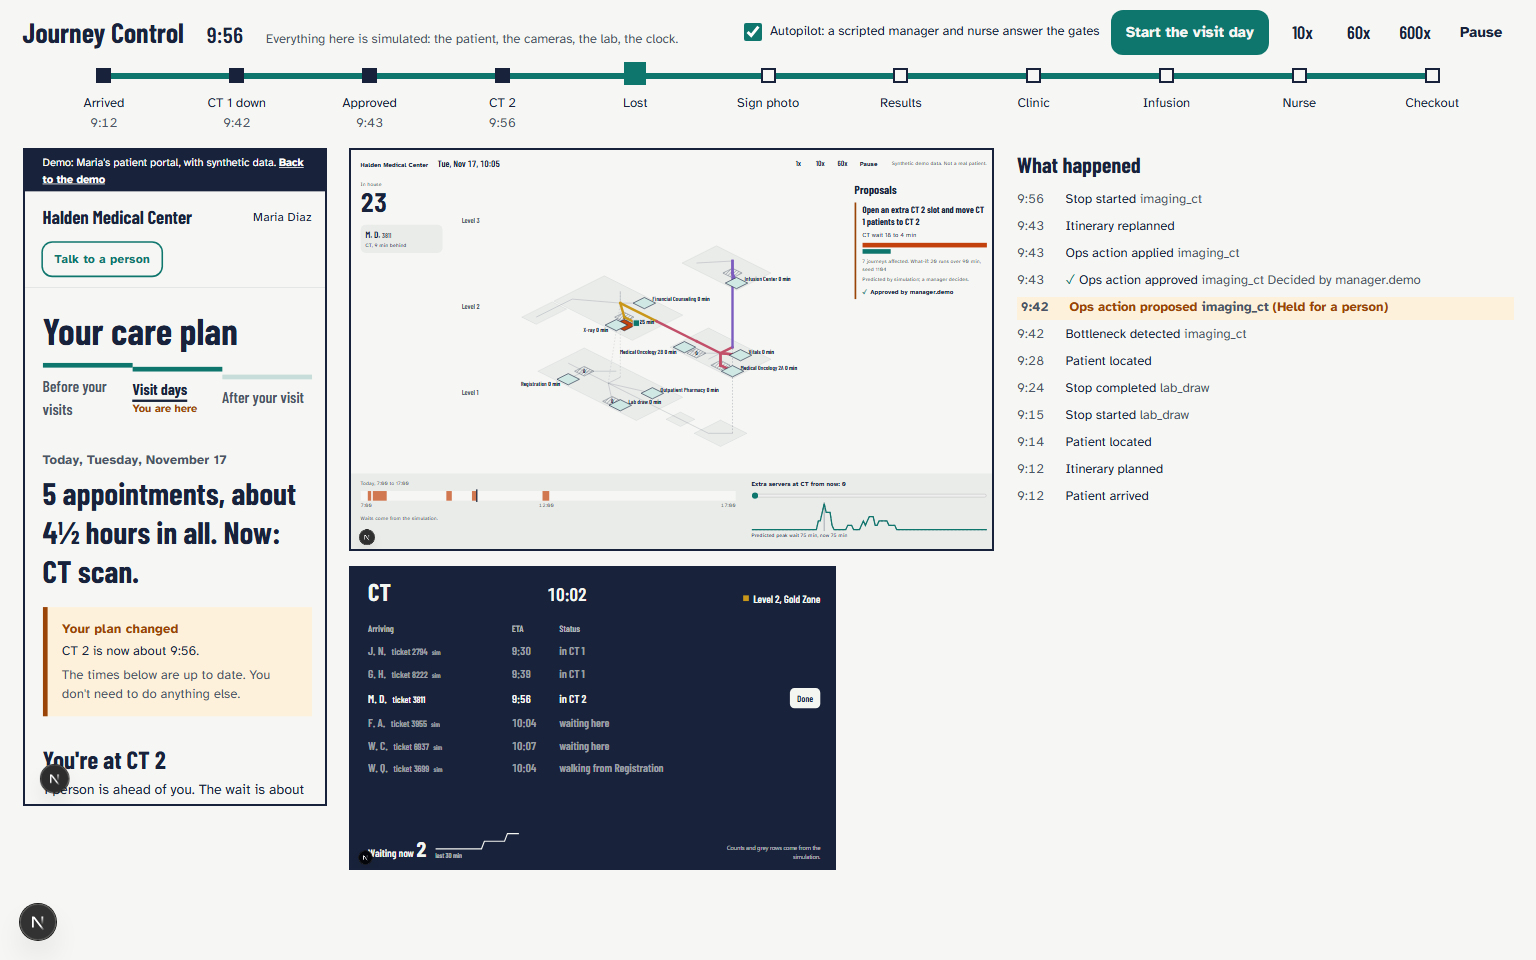
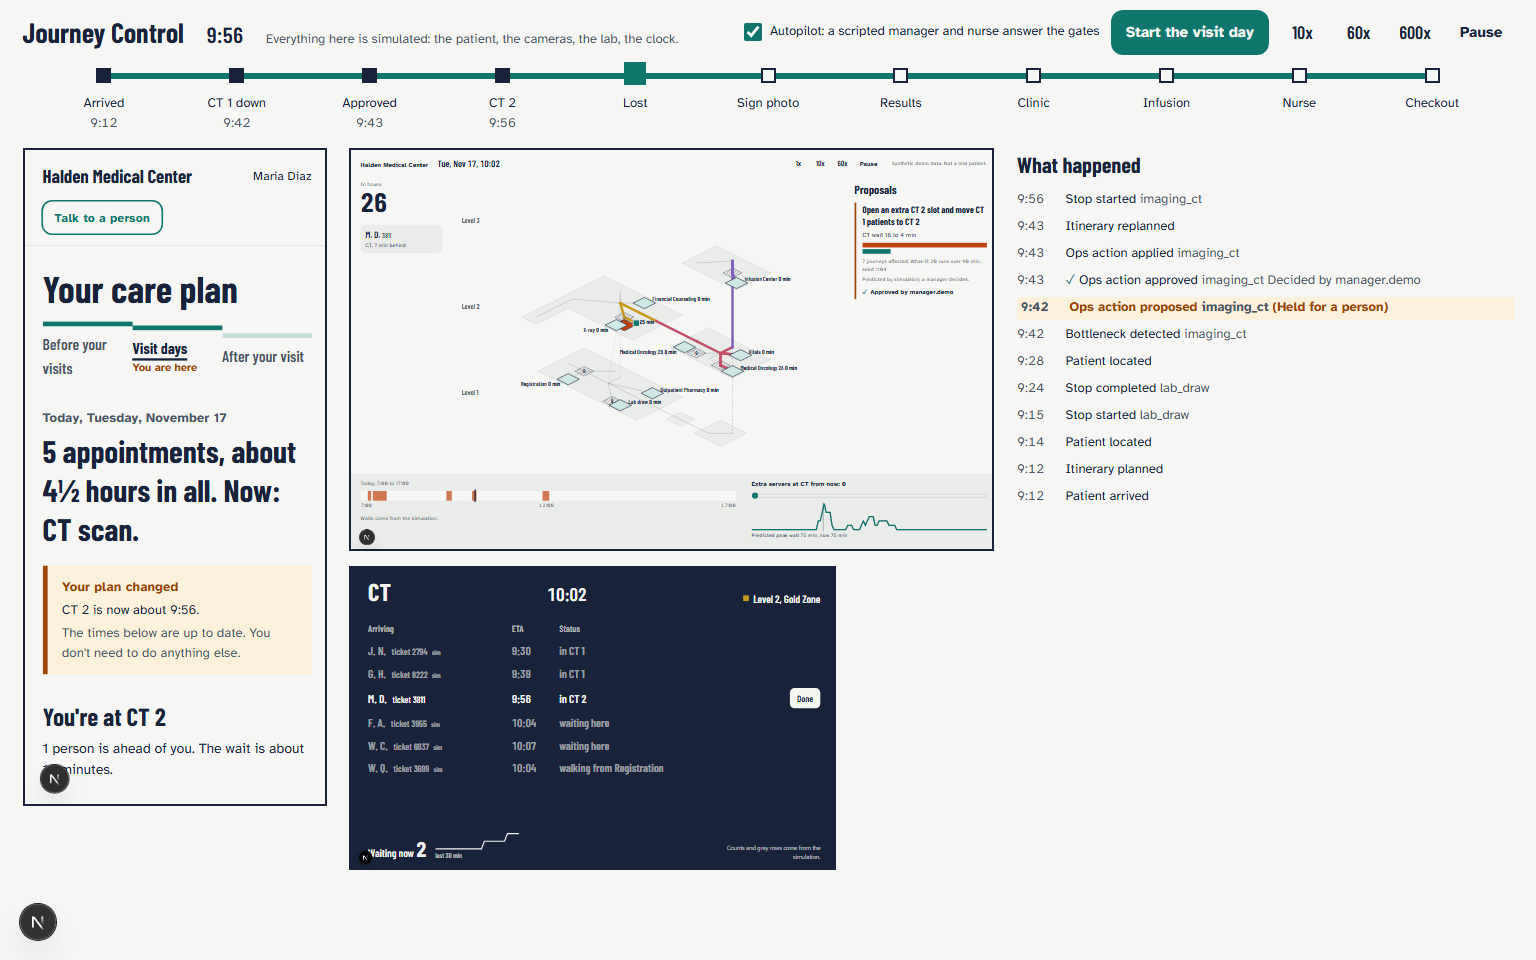
web: present the product as live, without demo and synthetic chrome
Story actions read as the product's own actions (Save member ID, Send to
Lonestar Health Plan, Continue to 9:53 am); Maria's reply is a text she sends;
demo strips, 'synthetic' footers, and simulation notes are gone from the
pages people see. Data stays flagged synthetic in the backend.

Changed region(s): [[0.0, 0.1562, 0.2188, 0.8438]]

diff --git a/apps/web/app/story/steps.ts b/apps/web/app/story/steps.ts
@@ -21,6 +21,8 @@ export interface StoryStepCopy {
   happened: string;
   screen: Screen;
   action: string;
+  /** A message the actor sends with the action (Maria's text reply). */
+  draft?: string;
   next: string;
 }
 
@@ -33,7 +35,7 @@ export const STEPS: StoryStepCopy[] = [
     happened:
       "Dr. Whitcombe's office faxed a referral for Maria Diaz. Throughline read the fax and the insurance card. One thing was unreadable: the end of her member ID is smudged on the fax.",
     screen: { kind: "intake" },
-    action: "Enter the member ID from the card",
+    action: "Save member ID",
     next: "Throughline checks her insurance and drafts the approval request for the CT scan.",
   },
   {
@@ -44,7 +46,7 @@ export const STEPS: StoryStepCopy[] = [
     happened:
       "Her insurance is active. Her plan must approve the CT scan and the infusion before they can be booked, so Throughline drafted the request. Nothing goes to an insurer without a person.",
     screen: { kind: "auth" },
-    action: "Send the request to the insurer",
+    action: "Send to Lonestar Health Plan",
     next: "The insurer usually answers within two business days.",
   },
   {
@@ -55,7 +57,7 @@ export const STEPS: StoryStepCopy[] = [
     happened:
       "The request is with Lonestar Health Plan. There is nothing for anyone to do until they answer.",
     screen: { kind: "waiting" },
-    action: "Skip ahead two days",
+    action: "Continue to Thu, Nov 12",
     next: "When the insurer approves, Throughline books every appointment in the right order and texts Maria.",
   },
   {
@@ -66,7 +68,8 @@ export const STEPS: StoryStepCopy[] = [
     happened:
       "The insurer approved. Throughline fit all five appointments into one morning, on a day her daughter can drive her, and texted Maria what to expect.",
     screen: { kind: "patient", phase: "before" },
-    action: "Reply as Maria: “Yes. My husband can't come, so I'll need a wheelchair.”",
+    action: "Send",
+    draft: "Yes, I'll be there. But my husband can't come, so I'll need a wheelchair.",
     next: "Throughline confirms, notes the wheelchair, and sends reminders before the day.",
   },
   {
@@ -77,7 +80,7 @@ export const STEPS: StoryStepCopy[] = [
     happened:
       "Maria got a reminder this morning. Her page says exactly what tomorrow looks like and what to do tonight.",
     screen: { kind: "patient", phase: "before" },
-    action: "Go to Tuesday morning: Maria arrives",
+    action: "Continue to Tue, Nov 17, 9:13 am",
     next: "She checks in at the Main Entrance kiosk and gets her plan for the day.",
   },
   {
@@ -88,7 +91,7 @@ export const STEPS: StoryStepCopy[] = [
     happened:
       "Maria checked in. Her daughter pushes her wheelchair. Her page shows her first stop, how many people are ahead, and a step-free way there.",
     screen: { kind: "patient", phase: "visit" },
-    action: "Play the morning",
+    action: "Continue to 9:53 am",
     next: "She has her blood drawn and her vitals checked, then waits for her CT scan. Meanwhile, CT scanner 1 breaks down.",
   },
   {
@@ -99,8 +102,8 @@ export const STEPS: StoryStepCopy[] = [
     happened:
       "CT scanner 1 went down at 9:40. The waiting room camera counts the people waiting, and the wait has jumped. Maria is one of the people waiting.",
     screen: { kind: "station" },
-    action: "Show the operations manager",
-    next: "Throughline simulated what would help and sent the operations manager one proposal.",
+    action: "Open the command center",
+    next: "Throughline works out what would help and sends the operations manager one proposal.",
   },
   {
     id: "decide",
@@ -121,7 +124,7 @@ export const STEPS: StoryStepCopy[] = [
     happened:
       "Maria's page says her scan moved to CT 2, next door, and shows her new times. She doesn't have to ask anyone.",
     screen: { kind: "patient", phase: "visit" },
-    action: "Play until after her doctor's visit",
+    action: "Continue to 11:47 am",
     next: "After her scan she stops at the café and loses track of time. Her next stop notices she is late.",
   },
   {
@@ -132,7 +135,7 @@ export const STEPS: StoryStepCopy[] = [
     happened:
       "Maria wasn't at the vitals desk on time, so Throughline asked if she was on her way. She took a photo of the nearest sign, and Throughline recognized where she was and sent directions from there.",
     screen: { kind: "patient", phase: "visit" },
-    action: "Play until her infusion",
+    action: "Continue to 12:47 pm",
     next: "She sees Dr. Okafor, then goes up to the Infusion Center.",
   },
   {
@@ -143,7 +146,7 @@ export const STEPS: StoryStepCopy[] = [
     happened:
       "During her infusion Maria texted “Is it normal to feel dizzy?” Throughline does not answer medical questions. It told her a nurse would call and opened a task for the nurse.",
     screen: { kind: "patient", phase: "visit" },
-    action: "Finish the day",
+    action: "Continue to 2:35 pm",
     next: "Her infusion ends and she goes home.",
   },
   {
@@ -154,7 +157,7 @@ export const STEPS: StoryStepCopy[] = [
     happened:
       "Maria is home. Her page now shows what happens next: her visit summary, a short check that it made sense, her results, and her next appointment.",
     screen: { kind: "patient", phase: "after" },
-    action: "Start the story again",
+    action: "Start again from the referral",
     next: "",
   },
 ];

diff --git a/apps/web/app/story/story.tsx b/apps/web/app/story/story.tsx
@@ -182,9 +182,6 @@ function StationScreen() {
             ))}
           </tbody>
         </table>
-        <p className="mt-4 font-sans text-[14px] text-board-text/70">
-          Grey rows are simulated patients. Only Maria is played step by step.
-        </p>
       </div>
     </Frame>
   );
@@ -350,9 +347,6 @@ export function Story() {
           <span className="text-[16px] text-ink-soft">
             Maria&apos;s journey, step {index + 1} of {STEPS.length}
           </span>
-          <span className="ml-auto text-[13px] text-ink-soft">
-            Fictional hospital, synthetic patient
-          </span>
         </div>
       </header>
 
@@ -369,6 +363,12 @@ export function Story() {
           <p className="mt-3 max-w-[70ch] text-[19px]">{step.happened}</p>
 
           <div className="mt-6 flex flex-wrap items-center gap-4 rounded-[14px] bg-white p-4 ring-1 ring-ink/10">
+            {step.draft && (
+              <p className="w-full rounded-[16px] bg-line/10 px-4 py-3 text-[17px] sm:w-auto sm:flex-1">
+                <span className="block text-[13px] font-bold text-ink-soft">Maria&apos;s text</span>
+                {step.draft}
+              </p>
+            )}
             {step.screen.kind !== "ops" && (
               <button
                 type="button"
@@ -380,15 +380,14 @@ export function Story() {
               </button>
             )}
             {step.screen.kind === "ops" && (
-              <p className="text-[17px] font-bold">Your move: approve the proposal below.</p>
+              <p className="text-[17px] font-bold">Approve or reject the proposal below.</p>
             )}
             {step.next && (
               <p className="max-w-[60ch] text-[16px] text-ink-soft">Next: {step.next}</p>
             )}
             {error && (
               <p role="alert" className="text-[16px] text-wait-high">
-                The demo server didn&apos;t answer. Check that the runtime is running, then try
-                again.
+                Throughline didn&apos;t respond. Try again.
               </p>
             )}
           </div>

diff --git a/apps/web/app/page.tsx b/apps/web/app/page.tsx
@@ -51,7 +51,7 @@ const ROLES = [
   {
     href: "/story?step=decide",
     who: "For operations",
-    what: "Where the day is running late, and a simulated fix to approve or reject.",
+    what: "Where the day is running late, and a tested fix to approve or reject.",
     cta: "See the manager's decision",
   },
 ];
@@ -78,7 +78,7 @@ export default function Home() {
               >
                 Follow Maria&apos;s journey
               </Link>
-              <span className="text-[15px] text-ink-soft">About 3 minutes, plays by itself.</span>
+              <span className="text-[15px] text-ink-soft">12 steps, about 3 minutes.</span>
             </div>
           </div>
           <aside className="border-l-[6px] border-line pl-6 text-[15px] text-ink-soft">
@@ -87,7 +87,6 @@ export default function Home() {
               Referred to medical oncology for labs, a CT scan, a new-patient visit, and an
               infusion. Her husband can&apos;t come with her, and she will need a wheelchair.
             </p>
-            <p className="mt-2">Every person and place here is fictional.</p>
           </aside>
         </section>
 
@@ -166,9 +165,6 @@ export default function Home() {
           </div>
         </section>
       </main>
-      <footer className="border-t border-ink/10 py-6 text-center text-[13px] text-ink-soft">
-        Synthetic demo data. Not a real patient, hospital, or insurer.
-      </footer>
     </>
   );
 }

diff --git a/apps/web/app/p/[journeyId]/patient-portal.tsx b/apps/web/app/p/[journeyId]/patient-portal.tsx
@@ -710,7 +710,7 @@ export function PatientPortal({
   phase: fixedPhase,
 }: {
   journeyId: string;
-  /** Inside the story: no demo strip, and the story picks the part of care to show. */
+  /** Inside the story: the story picks the part of care to show and owns the actions. */
   embedded?: boolean;
   phase?: Phase;
 }) {
@@ -765,14 +765,6 @@ export function PatientPortal({
 
   return (
     <div className={embedded ? "bg-paper text-ink" : "min-h-dvh bg-paper text-ink"}>
-      {!embedded && (
-        <p className="bg-ink px-6 py-1.5 text-[14px] text-white">
-          Demo: Maria&apos;s patient portal, with synthetic data.{" "}
-          <Link href="/" className="font-bold underline">
-            Back to the demo
-          </Link>
-        </p>
-      )}
       <header className="border-b border-ink/10">
         <div className="mx-auto flex max-w-6xl flex-wrap items-center gap-4 px-6 py-4">
           <p className="font-display text-[24px] font-bold">Halden Medical Center</p>
@@ -835,9 +827,6 @@ export function PatientPortal({
           </div>
         )}
       </main>
-      <footer className="border-t border-ink/10 py-6 text-center text-[14px] text-ink-soft">
-        Synthetic demo data. Not a real patient, hospital, or insurer.
-      </footer>
     </div>
   );
 }

diff --git a/apps/web/e2e/story.spec.ts b/apps/web/e2e/story.spec.ts
@@ -16,13 +16,13 @@ test.describe("Maria's journey, step by step", () => {
       [],
     );
 
-    await page.getByRole("button", { name: "Enter the member ID from the card" }).click();
+    await page.getByRole("button", { name: "Save member ID" }).click();
     await expect(
       page.getByRole("heading", { name: "Approve the insurance request" }),
     ).toBeVisible();
     await expect(page.getByText("Waiting for you")).toBeVisible();
-    await page.getByRole("button", { name: "Send the request to the insurer" }).click();
-    await page.getByRole("button", { name: "Skip ahead two days" }).click();
+    await page.getByRole("button", { name: "Send to Lonestar Health Plan" }).click();
+    await page.getByRole("button", { name: "Continue to Thu, Nov 12" }).click();
     await expect(page.getByRole("heading", { name: "Maria confirms" })).toBeVisible();
     await expect(page.getByText(/Please confirm your visit: Tuesday, November 17/)).toBeVisible();
     await expect(page).toHaveURL(/step=confirm/);

diff --git a/apps/web/e2e/home.spec.ts b/apps/web/e2e/home.spec.ts
@@ -1,6 +1,10 @@
 import { expect, test } from "@playwright/test";
 
-test("home shows the synthetic data mark", async ({ page }) => {
+test("home explains the product and starts Maria's journey", async ({ page }) => {
   await page.goto("/");
-  await expect(page.getByText("Synthetic demo data")).toBeVisible();
+  await expect(
+    page.getByRole("heading", { name: "One thread through the whole hospital visit." }),
+  ).toBeVisible();
+  await page.getByRole("link", { name: "Follow Maria's journey" }).click();
+  await expect(page.getByRole("heading", { name: "A referral arrives" })).toBeVisible();
 });

diff --git a/apps/web/components/SiteHeader.tsx b/apps/web/components/SiteHeader.tsx
@@ -34,9 +34,7 @@ export function SiteHeader({ current }: { current?: (typeof NAV)[number]["href"]
             </Link>
           ))}
         </nav>
-        <span className="ml-auto text-[13px] text-ink-soft">
-          Halden Medical Center (fictional) · synthetic data
-        </span>
+        <span className="ml-auto text-[13px] text-ink-soft">Halden Medical Center</span>
       </div>
     </header>
   );

diff --git a/apps/web/app/layout.tsx b/apps/web/app/layout.tsx
@@ -16,7 +16,7 @@ const barlow = Barlow_Condensed({
 
 export const metadata: Metadata = {
   title: "Throughline",
-  description: "One thread through the whole hospital visit. Synthetic demo data.",
+  description: "One thread through the whole hospital visit.",
 };
 
 export default function RootLayout({ children }: { children: ReactNode }) {
